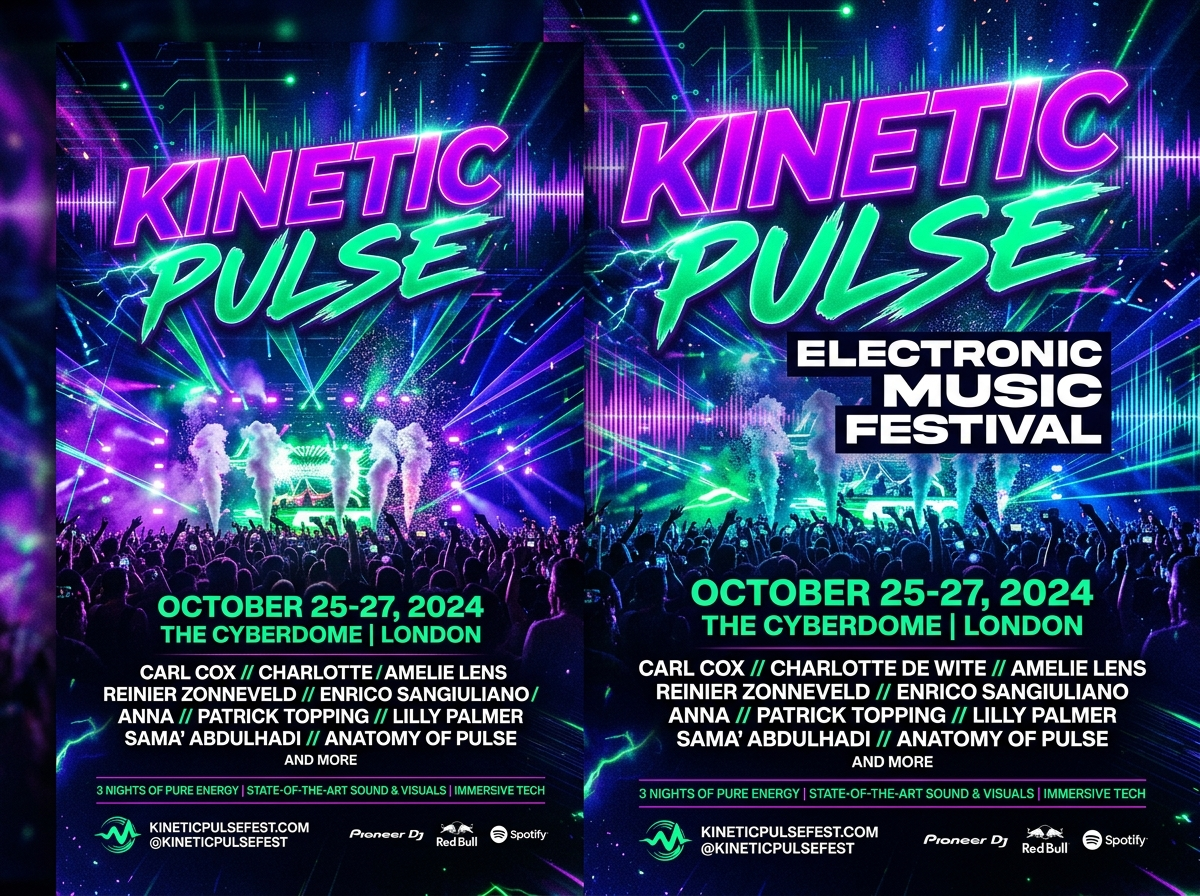
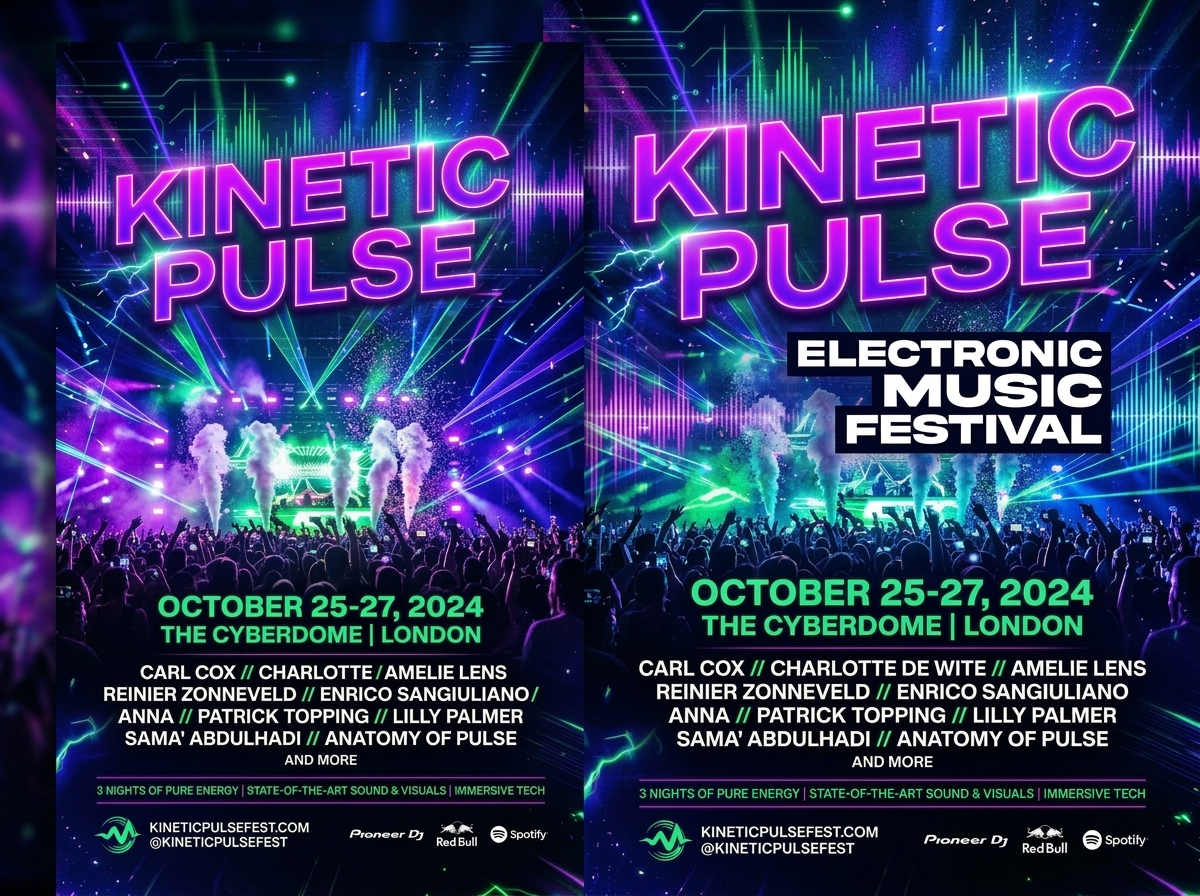
style: Update Kinetic Pulse typography to clean bold geometric sans-serif and place as last project in portfolio

diff --git a/index.html b/index.html
@@ -2168,26 +2168,7 @@
             </div>
           </div>
 
-          <!-- Item 2: Kinetic Pulse Festival -->
-          <div class="portfolio-card" data-category="poster" onclick="openProjectModal('pulse')">
-            <div class="project-stage">
-              <span class="stage-badge">POSTER & PROMO</span>
-              <img src="assets/project-pulse.jpg" alt="Kinetic Pulse Festival Promotional Post & Poster Design" class="project-card-img" />
-            </div>
-            <div class="project-details">
-              <div>
-                <div class="project-cat-badge">Poster & Promotional Design</div>
-                <h3 class="project-name">Kinetic Pulse Sound Fest</h3>
-                <p class="project-summary">High-octane electronic music festival key visual, typography posters, stage screen graphics, and multi-channel promo posts.</p>
-              </div>
-              <div class="project-foot">
-                <span>Festival Campaign</span>
-                <span class="view-case-link">View Case Study →</span>
-              </div>
-            </div>
-          </div>
-
-          <!-- Item 3: Zenith Wealth -->
+          <!-- Item 2: Zenith Wealth -->
           <div class="portfolio-card" data-category="print" onclick="openProjectModal('zenith')">
             <div class="project-stage">
               <span class="stage-badge">PRINT & STATIONERY</span>
@@ -2206,7 +2187,7 @@
             </div>
           </div>
 
-          <!-- Item 4: Nova Stream -->
+          <!-- Item 3: Nova Stream -->
           <div class="portfolio-card" data-category="social" onclick="openProjectModal('nova')">
             <div class="project-stage">
               <span class="stage-badge">SOCIAL MEDIA ADS</span>
@@ -2225,7 +2206,7 @@
             </div>
           </div>
 
-          <!-- Item 5: Solaris Coffee -->
+          <!-- Item 4: Solaris Coffee -->
           <div class="portfolio-card" data-category="print" onclick="openProjectModal('solaris')">
             <div class="project-stage">
               <span class="stage-badge">PACKAGING & MENU</span>
@@ -2244,7 +2225,7 @@
             </div>
           </div>
 
-          <!-- Item 6: Apex Dynamics -->
+          <!-- Item 5: Apex Dynamics -->
           <div class="portfolio-card" data-category="branding" onclick="openProjectModal('apex')">
             <div class="project-stage">
               <span class="stage-badge">BRAND & APPAREL</span>
@@ -2258,6 +2239,25 @@
               </div>
               <div class="project-foot">
                 <span>Athletic Brand Guide</span>
+                <span class="view-case-link">View Case Study →</span>
+              </div>
+            </div>
+          </div>
+
+          <!-- Item 6: Kinetic Pulse Festival -->
+          <div class="portfolio-card" data-category="poster" onclick="openProjectModal('pulse')">
+            <div class="project-stage">
+              <span class="stage-badge">POSTER & PROMO</span>
+              <img src="assets/project-pulse.jpg" alt="Kinetic Pulse Festival Promotional Post & Poster Design" class="project-card-img" />
+            </div>
+            <div class="project-details">
+              <div>
+                <div class="project-cat-badge">Poster & Promotional Design</div>
+                <h3 class="project-name">Kinetic Pulse Sound Fest</h3>
+                <p class="project-summary">High-octane electronic music festival key visual, typography posters, stage screen graphics, and multi-channel promo posts.</p>
+              </div>
+              <div class="project-foot">
+                <span>Festival Campaign</span>
                 <span class="view-case-link">View Case Study →</span>
               </div>
             </div>
@@ -2704,16 +2704,6 @@
         colors: ["#1B1035", "#7C3AED", "#E9D5FF", "#FFFFFF"],
         fonts: "Playfair Display & Plus Jakarta Sans"
       },
-      pulse: {
-        title: "Kinetic Pulse Sound Fest",
-        category: "Poster & Promotional Design",
-        client: "Pulse Entertainment Group",
-        image: "assets/project-pulse.jpg",
-        deliverables: "Event Key Visuals, Billboard Flex, Instagram Motion Covers, Festival Passes, Stage Lighting Backdrops",
-        overview: "A high-octane electronic music festival required an unmistakable typographic aesthetic that pulsed with energy under stage lighting. We engineered key festival visuals, billboard flex designs, and animated Instagram motion covers.",
-        colors: ["#1B1035", "#7C3AED", "#A855F7", "#22C55E"],
-        fonts: "Cinzel & Space Grotesk"
-      },
       zenith: {
         title: "Zenith Private Capital",
         category: "Print Design • Corporate Stationery",
@@ -2753,6 +2743,16 @@
         overview: "A bold, angular athletic brand identity symbolizing unyielding speed, endurance, and upward momentum for active lifestyle enthusiasts. Designed complete apparel graphics, vehicle wraps, and high-energy social campaign posts.",
         colors: ["#1B1035", "#7C3AED", "#C084FC", "#FFFFFF"],
         fonts: "Space Grotesk & Plus Jakarta Sans"
+      },
+      pulse: {
+        title: "Kinetic Pulse Sound Fest",
+        category: "Poster & Promotional Design",
+        client: "Pulse Entertainment Group",
+        image: "assets/project-pulse.jpg",
+        deliverables: "Event Key Visuals, Billboard Flex, Instagram Motion Covers, Festival Passes, Stage Lighting Backdrops",
+        overview: "A high-octane electronic music festival required an unmistakable typographic aesthetic that pulsed with energy under stage lighting. We engineered key festival visuals, billboard flex designs, and animated Instagram motion covers.",
+        colors: ["#1B1035", "#7C3AED", "#A855F7", "#22C55E"],
+        fonts: "Cinzel & Space Grotesk"
       }
     };
 
